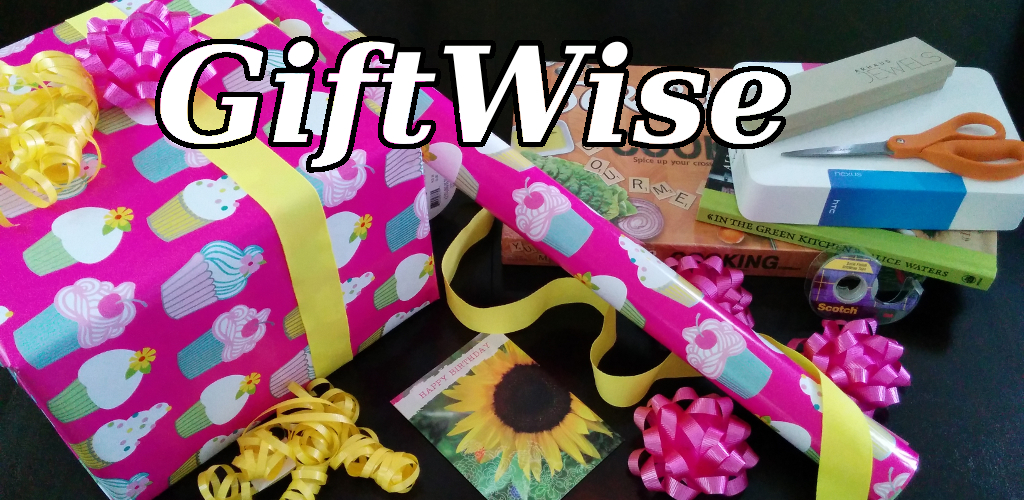
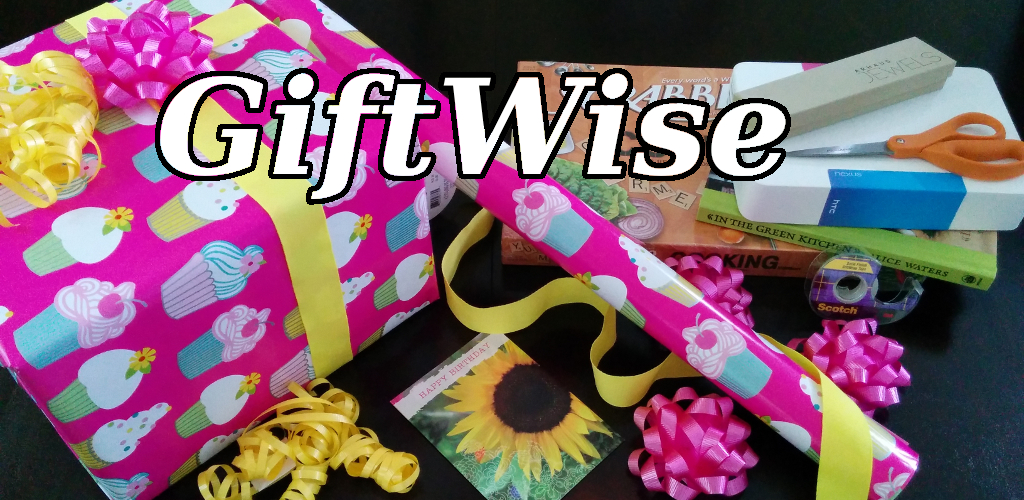
Moved feature image text lower
The text was partually obscured by the notification bar. Fixes #9

Changed region(s): [[0.125, 0.06, 0.7812, 0.42]]

diff --git a/res/art/README.md b/res/art/README.md
@@ -80,8 +80,8 @@ Also contained in this directory is the original background photo
 `res/art/feature-photo.jpg`.
 
 After editing `feature-image.xcf`, export a JPEG image to
-`res/prod/feature-image.jpg`. This is the final artwork to be
-uploaded to Google.
+`res/prod/feature-image.jpg`. Use Quality: 100%. This is the final
+artwork to be uploaded to Google.
 
 
 ### Deploying Into The Project Dir
